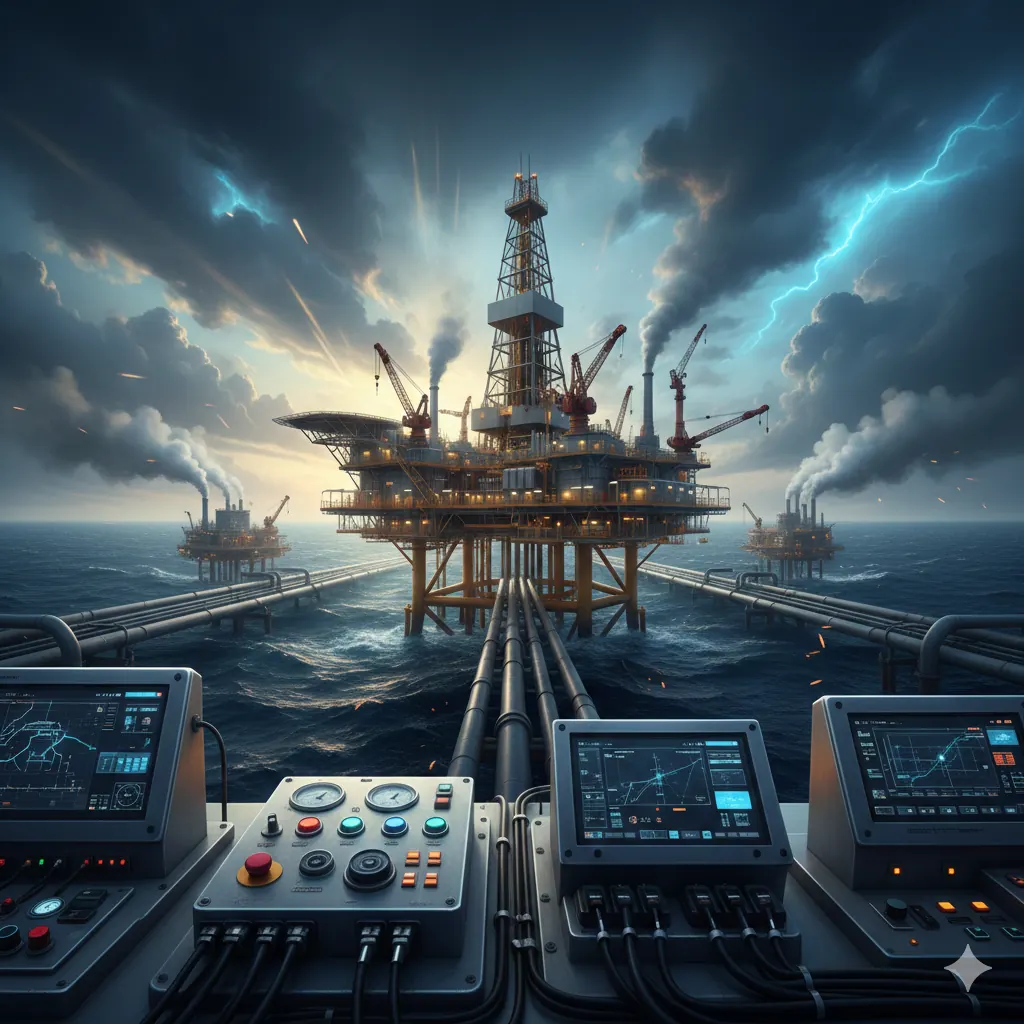
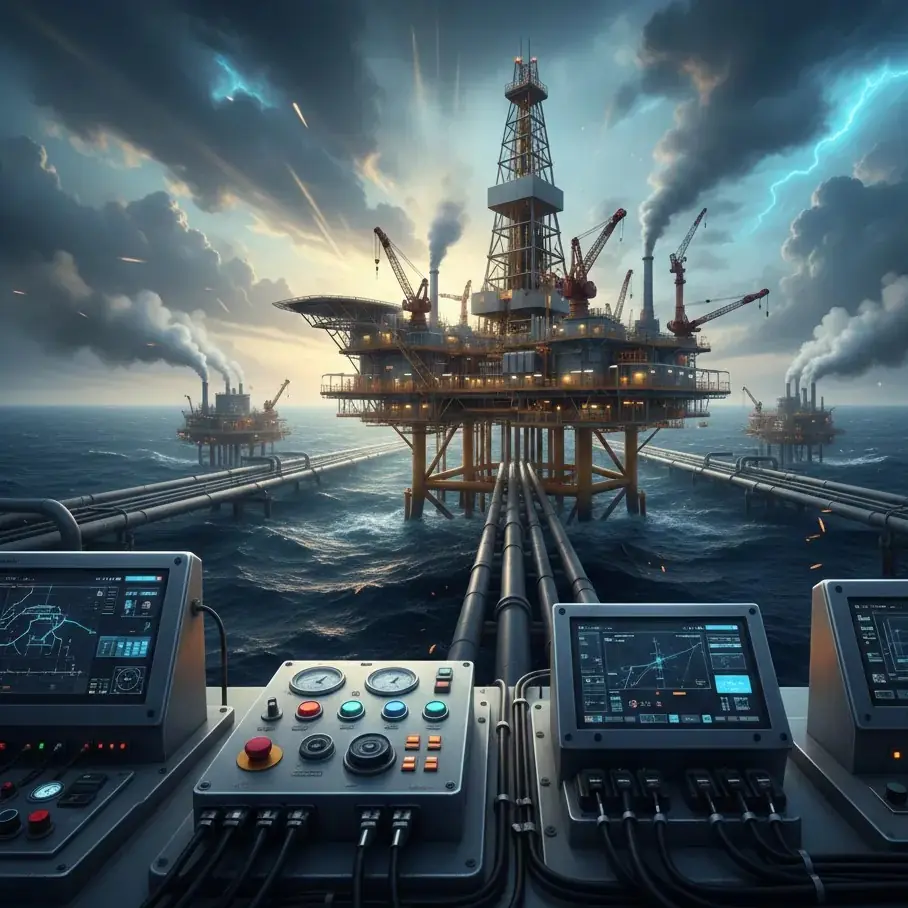
updated files

diff --git a/src/components/Popups/ProductPoppup.jsx b/src/components/Popups/ProductPoppup.jsx
@@ -7,6 +7,10 @@ import { IoCloseCircleSharp } from "react-icons/io5";
 import { baseUrl } from "@/config/Config";
 const ProductPoppup = ({ onClose, product }) => {
   const router = useRouter();
+
+  const resolveImage = (path) =>
+    path?.startsWith("/uploads") ? baseUrl + path : path;
+
   return (
     <div className="product-popup">
       <div className="popup-card">
@@ -15,14 +19,14 @@ const ProductPoppup = ({ onClose, product }) => {
           <h3>
             {product.title}
           </h3>
-          <img src={baseUrl + product.image} alt="" />
+          <img src={resolveImage(product.image)} alt="" />
         </div>
         <div className="right">
           <h2>{product.title}</h2>
-           <div
-          className="popup-description"
-          dangerouslySetInnerHTML={{ __html: product?.description || "" }}
-        />
+          <div
+            className="popup-description"
+            dangerouslySetInnerHTML={{ __html: product?.description || "" }}
+          />
           <Button
             variant="filled"
             color="white"

diff --git a/src/components/Popups/ProductPoppup.css b/src/components/Popups/ProductPoppup.css
@@ -46,7 +46,7 @@
 .product-popup .popup-card .left img {
   height: 200px;
 
-  width: auto;
+  width: 100%;
   max-width: 100%;
 }
 .product-popup .popup-card .left h3 {
